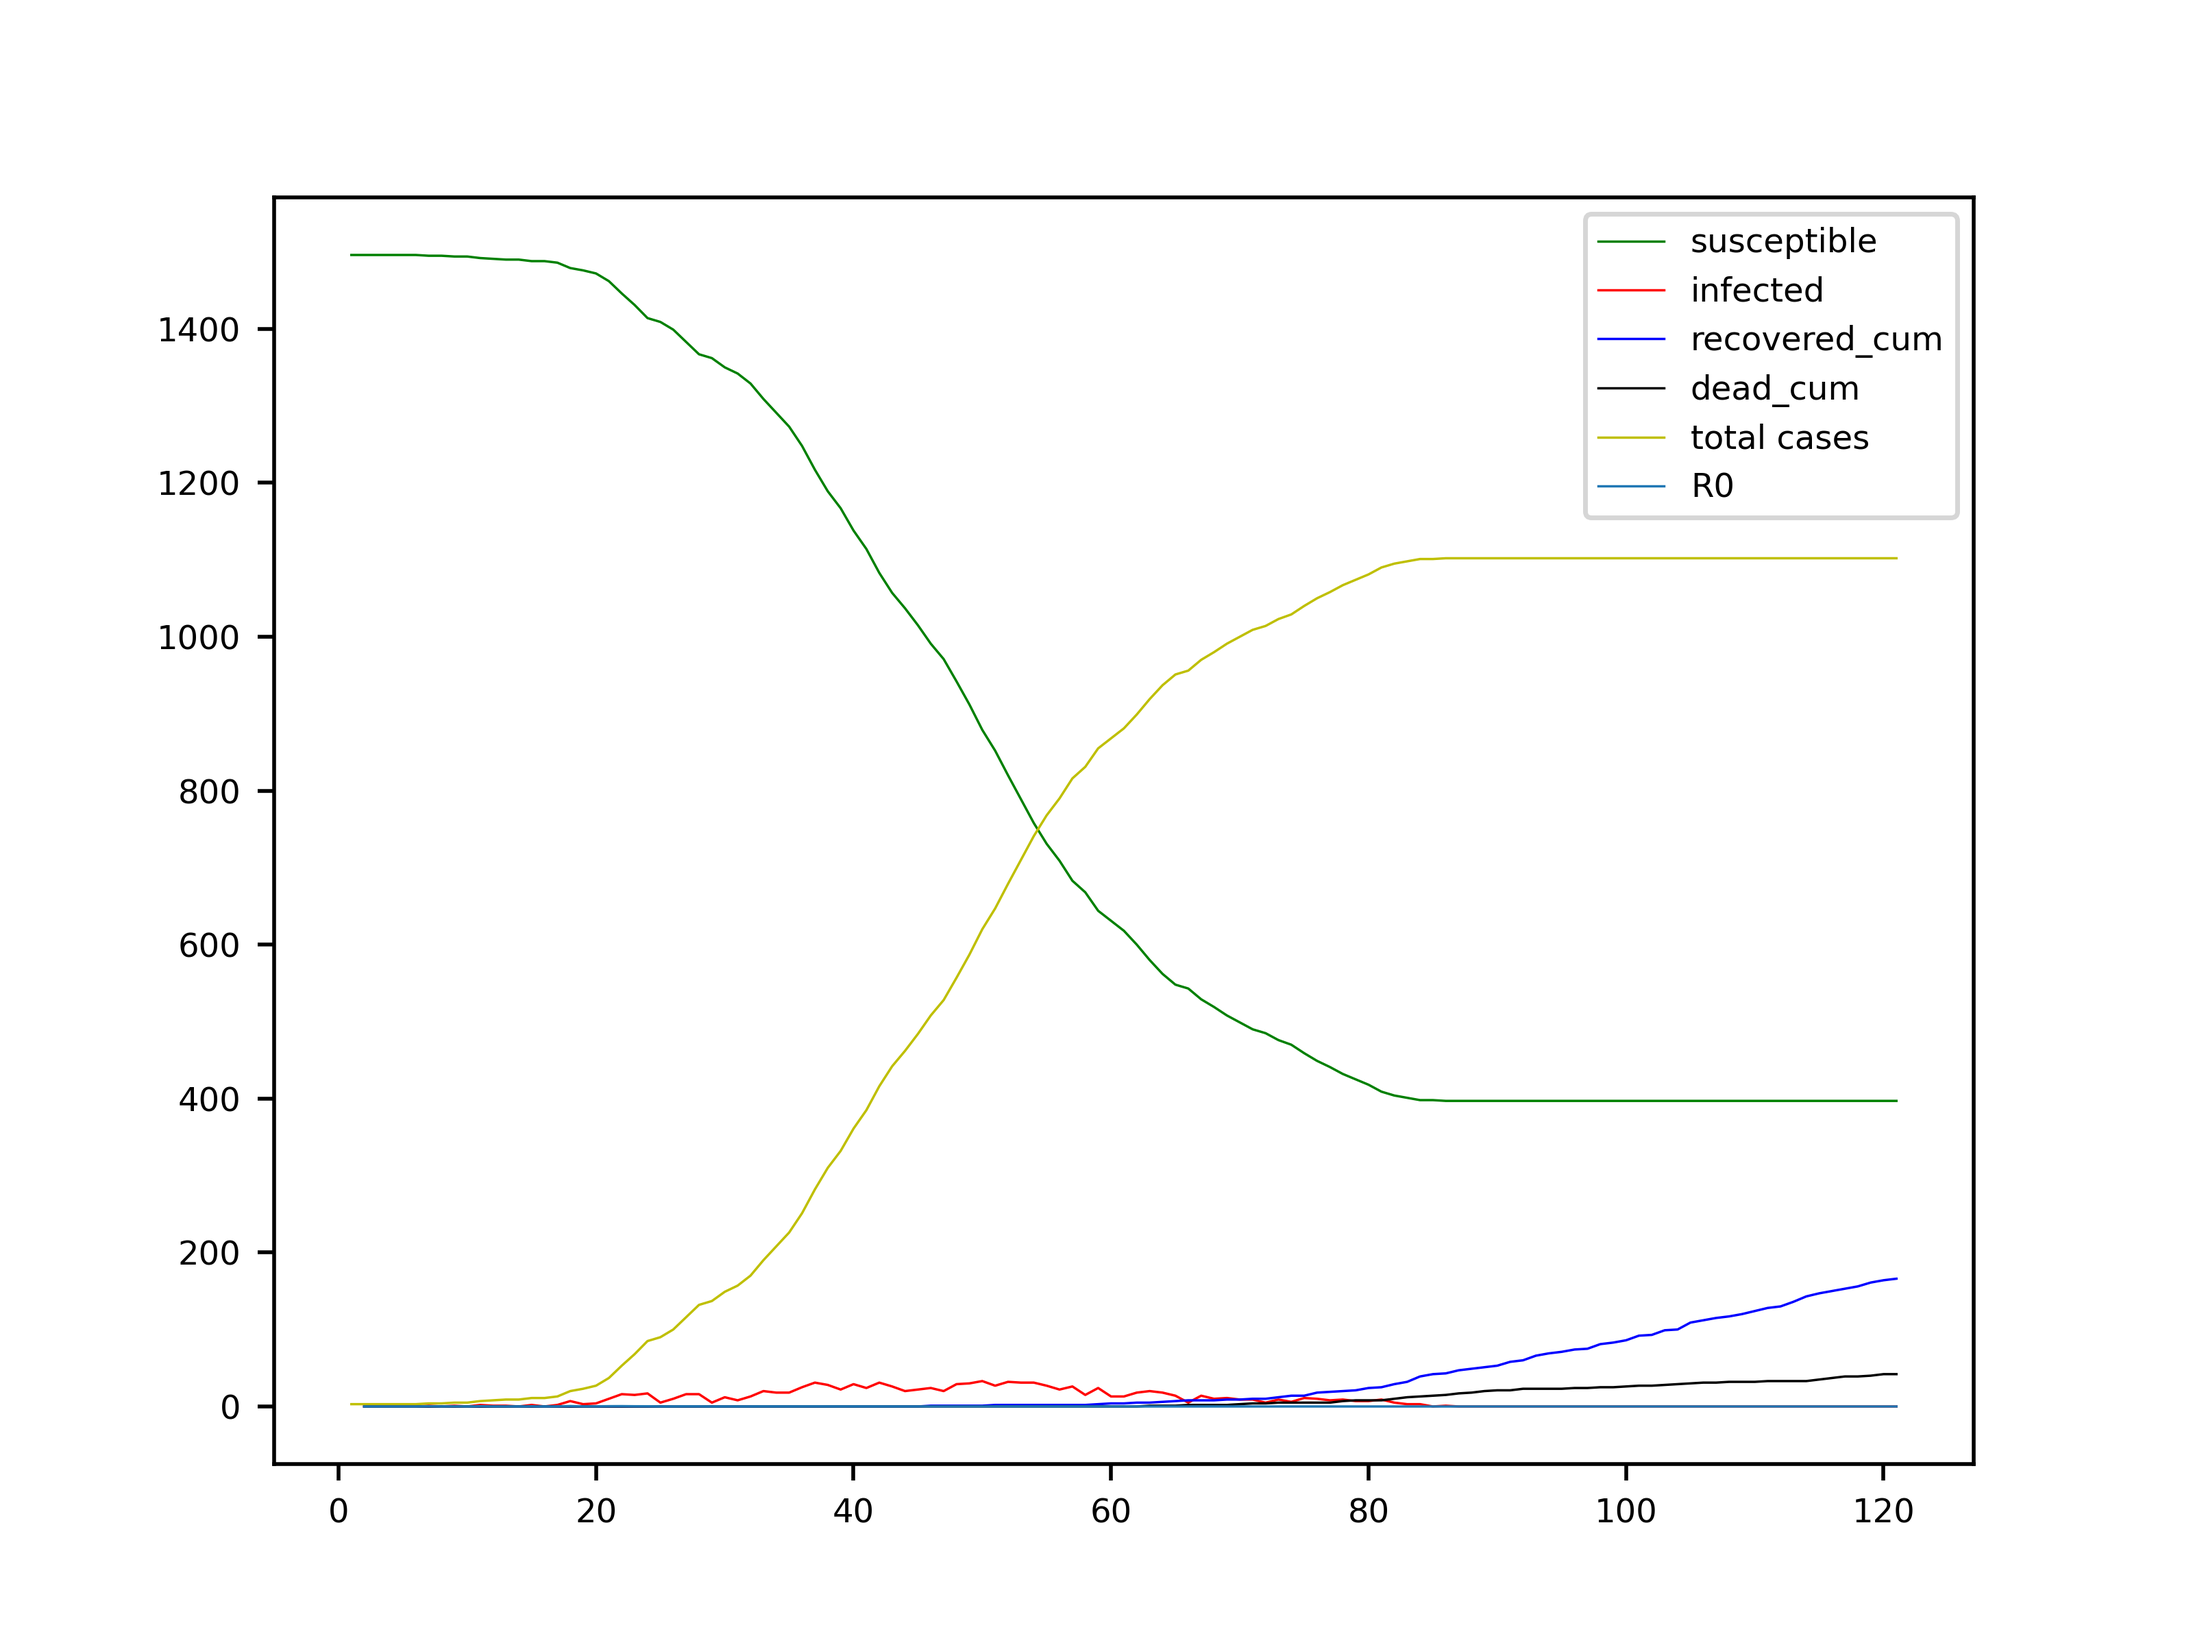
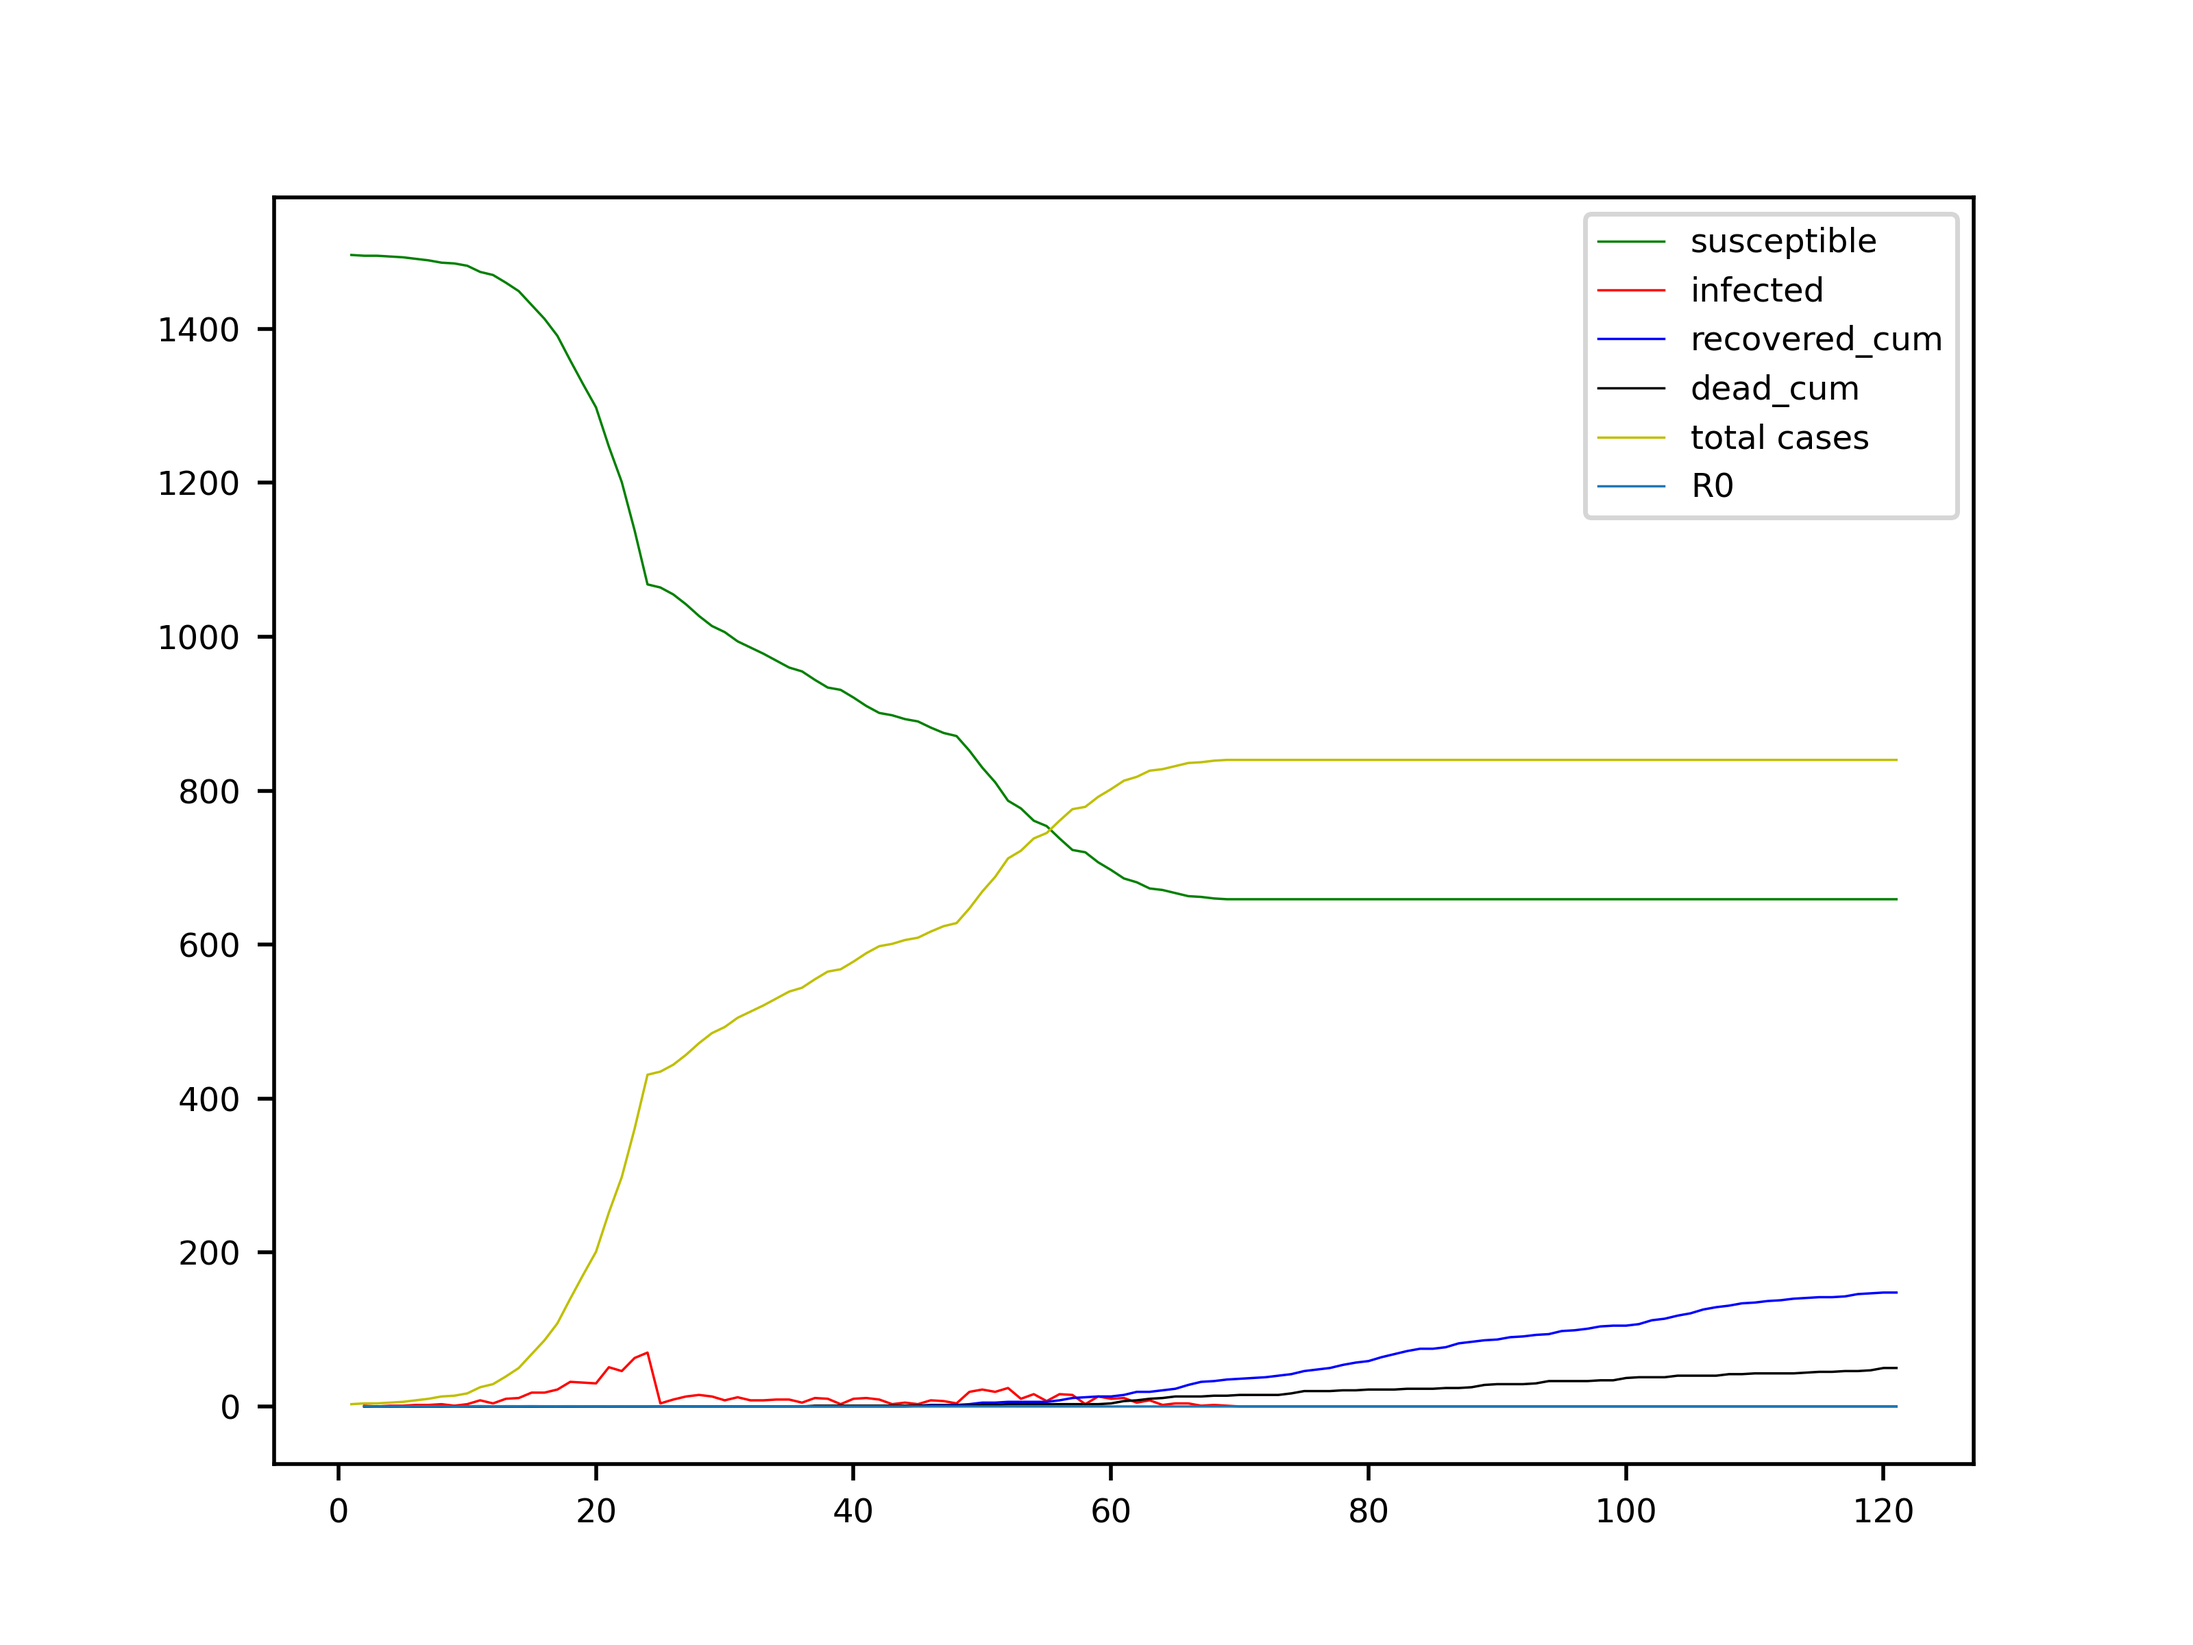
fixed workplace network and modified partial lockdown function.

diff --git a/Gill_Sim.py b/Gill_Sim.py
@@ -57,7 +57,7 @@ class Gill_Sim():
                      'dead_cum':[None], 'total_inf':[self.n_i], 'r0':[None]}###
         self.init_run()
 
-    def set_params(self, mu = 0.003, beta = 0.012, gamma = 0.001, qua = 0.003, BEFORE_QUA = [8,14], AFTER_QUA = [10,20]): #mu=recovery rate, beta=infection rate
+    def set_params(self, mu = 0.003, beta = 0.015, gamma = 0.001, qua = 0.003, BEFORE_QUA = [8,14], AFTER_QUA = [10,20]): #mu=recovery rate, beta=infection rate
         # gamma = death rate, qua = quarantine rate, before_qua = n days before quarantine, after_qua = n days before exiting from quarantine
         # ATTENTION TO HOW THE PARAMS ARE USED IN RUN() FUNCTION! 
         self.mu = mu
@@ -243,6 +243,7 @@ class Gill_Sim():
                 print('CURRENT N_quarantined: ', len(self.m_q), ' ', self.n_q)#self.n_q
                 print('Total_infected: ', self.data['total_inf'][t+1])
                 print('CURRENT R0: ', self.data['r0'][t+1])
+                print('CURRENT infected nodes: ', len(self.m_i))
                 print('\n')
         self.time += T_sim
 
@@ -259,7 +260,7 @@ class Gill_Sim_lock(Gill_Sim):
     def __init__(self, d_G = Dynamic_Social_Net(n=1500), n_i = 3, default = True):
         super().__init__(d_G, n_i, default)
         
-    def run_lock(self, T_sim = 50, s_lock = 10, e_lock = 20): #IMPROVE IT WITH LOCKDOWN LIST
+    def run_lock(self, T_sim = 50, s_lock = 10, e_lock = 20):
         self.init_run()
         self.run(s_lock)
         print('####### START LOCK ##########')
@@ -269,12 +270,18 @@ class Gill_Sim_lock(Gill_Sim):
         self.d_G.set_lock(lock=False)
         self.run(T_sim-e_lock)
 
-    def run_part_lock(self, T_sim=50, s_lock=10, e_lock=20):  # IMPROVE IT WITH LOCKDOWN LIST
+    def run_part_lock(self, T_sim=50, s_lock=10, e_lock=20):  # Italian lockdown
         self.init_run()
         self.run(s_lock)
         print('####### START LOCK ##########')
+        lock_days = int((e_lock - s_lock)/2.5)
+        part_days = e_lock - s_lock - lock_days
+        self.d_G.set_lock(lock=True)
+        self.run(lock_days)
+        print('>>>>>>>>> END TOTAL LOCKDOWN')
+        self.d_G.set_lock(lock=False)
         self.d_G.set_parameters_part_lock()
-        self.run(e_lock - s_lock)
+        self.run(part_days)
         print('####### END LOCK ##########')
         self.d_G.set_parameters()
         self.run(T_sim - e_lock)
@@ -289,7 +296,7 @@ if __name__ == '__main__': #CHANGE TO Gill_Sim_lock()
     #print('Families: ', s.return_d_graph_families())
     G = s.return_d_graph().return_graph()
     print('###########START############')
-    s.run_part_lock(120, 16+7, 84+7)
+    s.run_part_lock(120, 16+7, 84)
     #s.run_lock(120, 16+7, 84+7) #DELAY 1 WEEK
     data = s.return_data()
     draw_curve(data, len(G), len(data['infected']))
@@ -305,16 +312,16 @@ if __name__ == '__main__': #CHANGE TO Gill_Sim_lock()
     jun = [row[0] for row in c[1:]].index('2020-06-01')
     datadict = {'infected':[int(i[inf]) for i in c[feb:jun]]}
 
-    fig, ax = plt.subplots(3,1)
+    fig, ax = plt.subplots(2,1)
     x = [i+1 for i in range(len(datadict['infected']))]
     ax[0].plot(x, datadict['infected'], 'r', linewidth=1)
     x = [i+1 for i in range(len(data['infected']))]
-    ax[1].plot(x, data['infected'], 'r', linewidth=1)
-    ax[1].vlines(x=16, ymin=0, ymax=max(data['infected'][1:]), colors='black', ls='--', lw=2)
-    ax[1].vlines(x=84, ymin=0, ymax=max(data['infected'][1:]), colors='green', ls='--', lw=2)
+    ax[1].plot(x, data['infected'], 'b', linewidth=1)
+    ax[1].vlines(x=16, ymin=0, ymax=max(data['infected'][1:]), colors='black', ls='--', lw=1)
+    ax[1].vlines(x=84, ymin=0, ymax=max(data['infected'][1:]), colors='green', ls='--', lw=1)
     x = [i+1 for i in range(len(data['infected'])-1)]
-    INCUB_DAYS = 14
-    l = [0]*INCUB_DAYS + data['infected'][1:len(data['infected'])-INCUB_DAYS]
-    ax[2].plot(x, l, 'r', linewidth=1) # translated curve; incubation period
+    # INCUB_DAYS = 14
+    # l = [0]*INCUB_DAYS + data['infected'][1:len(data['infected'])-INCUB_DAYS]
+    # ax[2].plot(x, l, 'r', linewidth=1) # translated curve; incubation period
     plt.savefig('Test_1', dpi=500)
     plt.close()

diff --git a/generate_network.py b/generate_network.py
@@ -218,6 +218,7 @@ class Dynamic_Social_Net(Social_Net):
                                             #interaction_prob=0.20, social_prob=0.01, rand_degree=3) #my choice
                         self.set_parameters()
                         self.families = self.family_graph(n, self.G)    #added egdes between members
+                        self.workplace_BA() #no changes??????
                         self.random_enumerate_families()
                         self.lock = False
                 else:
@@ -239,8 +240,8 @@ class Dynamic_Social_Net(Social_Net):
                 for _, nodes_to_add in enumerate(self.families):
                         for i, j in list(it.combinations(nodes_to_add, 2)):
                                 self.G.add_edge(i, j, lockdown=True)  # edges between family members
-                if self.lock == False:
-                        self.workplace_BA()
+                # if self.lock == False:
+                #         self.workplace_BA() it makes more sense?????
                 self.workplace_random()
                 self.interaction()  # lockdown interaction with essential workers
                 if self.lock == False:
@@ -255,8 +256,8 @@ class Dynamic_Social_Net(Social_Net):
                 for _, nodes_to_add in enumerate(self.families):
                         for i,j in list(it.combinations(nodes_to_add, 2)):
                                 self.G.add_edge(i,j, lockdown=True)     #edges between family members
-                if self.lock == False:
-                        self.workplace_BA_trigger()
+                # if self.lock == False:
+                #         self.workplace_BA_trigger() it makes more sense?????
                 self.workplace_random_trigger()
                 self.interaction() #lockdown interaction with essential workers. =trigger
                 if self.lock == False:
